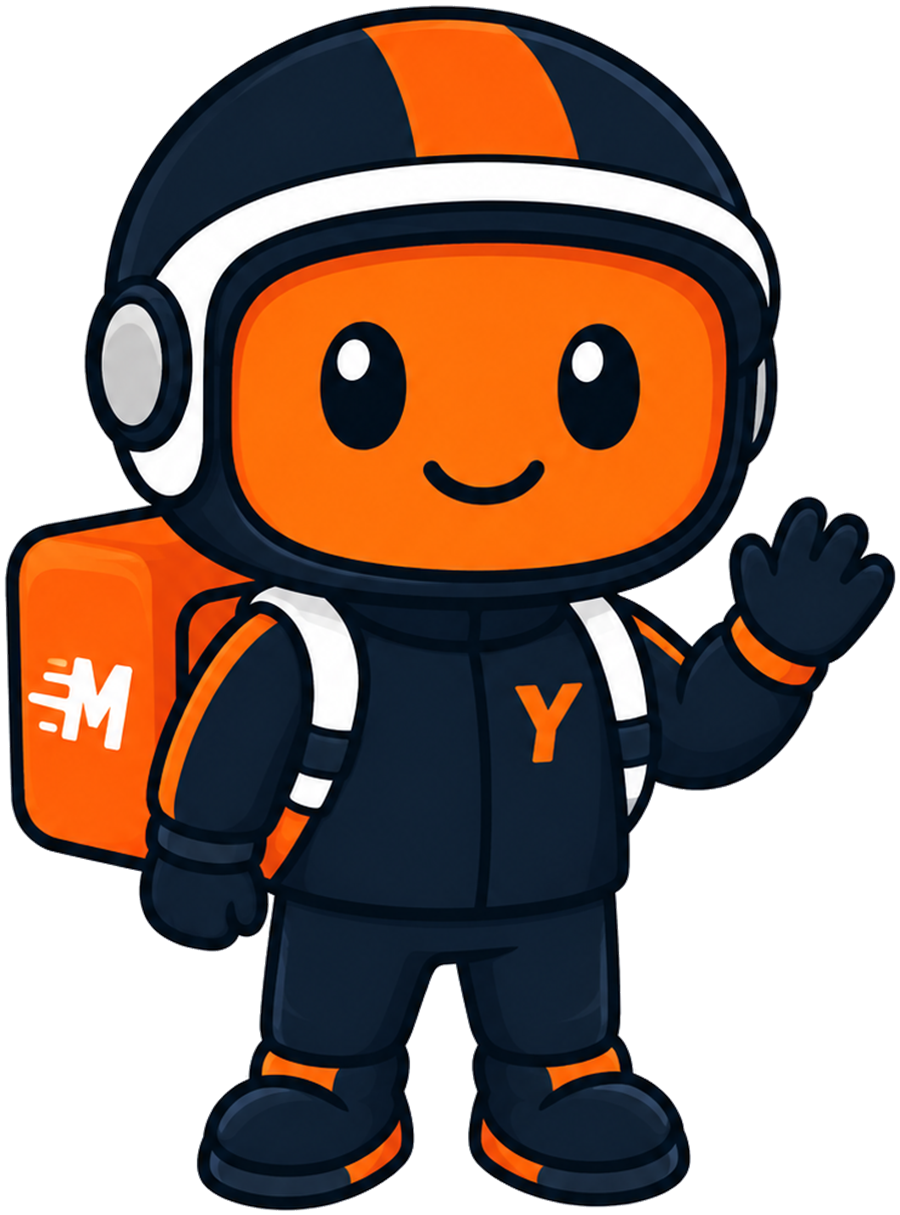
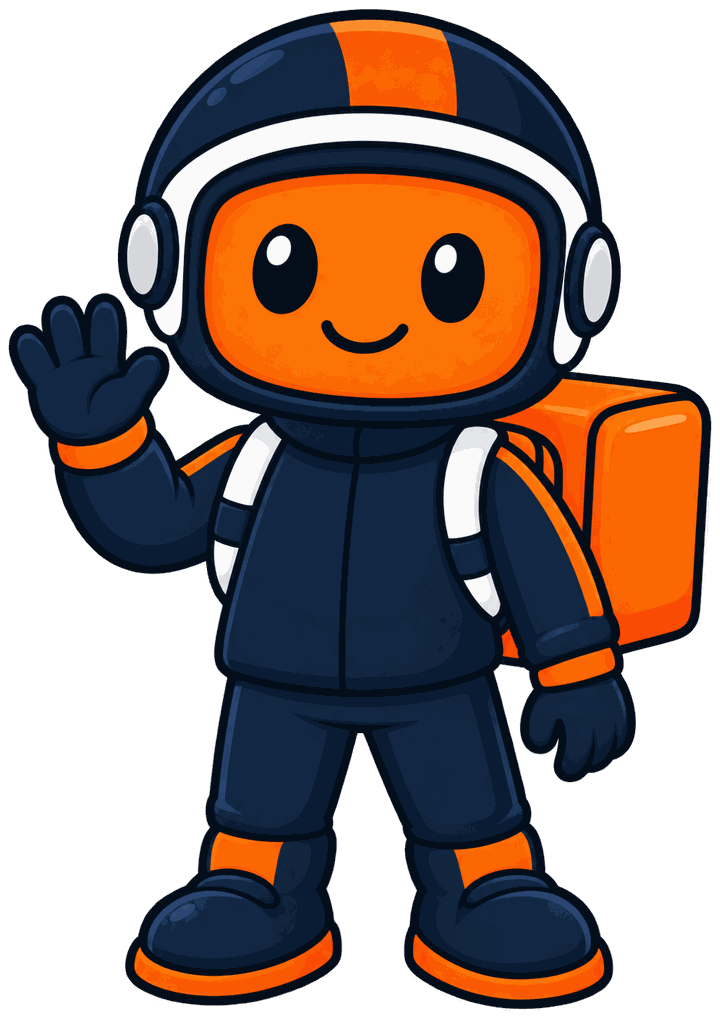
:sparkles: FEATURE :: Enlaces a terminos y privacidad, y mascota sin la marca vieja
Los documentos legales ahora se pueden leer
El registro pedia marcar "Acepto los Terminos y la Politica de privacidad" en
texto plano, sin forma de abrir ninguno de los dos desde la app. Una aceptacion
asi no vale gran cosa, ni legalmente ni de cara al usuario, y las tiendas piden
que ambos sean alcanzables desde dentro.

- El texto de la casilla pasa a Text.rich con los dos documentos enlazados.
- El pie del perfil gana una fila con los dos enlaces, encima de la version.
- Los dos abren zumbeo.com en el navegador del sistema, no en un WebView: son
  documentos largos que la gente lee, copia y comparte, y asi se actualizan
  publicando la landing en vez de sacando una version de la app.
- Si no se pueden abrir, un SnackBar muestra la URL. Fallar en silencio dejaria
  al usuario tocando un enlace que no hace nada.
- Env.sitioBaseUrl (SITIO_BASE_URL, default https://zumbeo.com) y de ahi
  terminosUrl y privacidadUrl. Es la landing, no el panel: quien abre esto es un
  cliente o un conductor, y un enlace a un host que dice "admin" parece un
  phishing.

Detalle: los TapGestureRecognizer viven en el State y se liberan en dispose.
Creados dentro de build se filtrarian en cada repintado, y el registro se
repinta con cada tecla que se escribe.

Mascota
- mascota.png se reemplaza por la maestra nueva, que ya nace sin la "M" de la
  caja ni la "Y" del pecho. Las copias anteriores llevaban esas dos letras de
  motoYa horneadas dentro del dibujo.
[…]

diff --git a/lib/ui/core/widgets/legal.dart b/lib/ui/core/widgets/legal.dart
@@ -1,0 +1,155 @@
+import 'package:flutter/gestures.dart';
+import 'package:flutter/material.dart';
+import 'package:url_launcher/url_launcher.dart';
+
+import '../../../config/env.dart';
+import '../theme/app_colors.dart';
+import '../theme/app_spacing.dart';
+
+/// Abre una URL legal en el navegador del sistema.
+///
+/// Fuera de la app a propósito: son documentos largos que la gente lee, copia y
+/// comparte, y meterlos en un WebView dentro de la app obligaría a mantener una
+/// pantalla más y a duplicar el texto. Además así se actualizan publicando la
+/// landing, sin sacar una versión nueva de la app.
+///
+/// Si no se puede abrir —un dispositivo sin navegador, un enlace mal formado—
+/// se avisa con la URL a la vista, que es lo único útil que se puede hacer:
+/// permite copiarla a mano. Fallar en silencio dejaría al usuario tocando un
+/// enlace que no hace nada.
+Future<void> abrirEnlaceLegal(BuildContext context, String url) async {
+  final messenger = ScaffoldMessenger.maybeOf(context);
+  var abierto = false;
+  try {
+    abierto = await launchUrl(
+      Uri.parse(url),
+      mode: LaunchMode.externalApplication,
+    );
+  } catch (_) {
+    abierto = false;
+  }
+  if (!abierto) {
+    messenger?.showSnackBar(
+      SnackBar(content: Text('No pudimos abrir el enlace. Entra a $url')),
+    );
+  }
+}
+
+/// Enlaces a los documentos legales, para el pie del perfil.
+///
+/// Van en el perfil y no enterrados en un "Acerca de": las tiendas piden que
+/// sean alcanzables desde dentro de la app, y quien los busca los busca aquí.
+class EnlacesLegales extends StatelessWidget {
+  const EnlacesLegales({super.key});
+
+  @override
+  Widget build(BuildContext context) {
+    return Wrap(
+      alignment: WrapAlignment.center,
+      crossAxisAlignment: WrapCrossAlignment.center,
+      children: [
+        _EnlaceLegal(
+          etiqueta: 'Términos y condiciones',
+          url: Env.terminosUrl,
+        ),
+        const Text('·',
+            style: TextStyle(color: AppColors.inkMuted, fontSize: 12)),
+        _EnlaceLegal(
+          etiqueta: 'Política de privacidad',
+          url: Env.privacidadUrl,
+        ),
+      ],
+    );
+  }
+}
+
+class _EnlaceLegal extends StatelessWidget {
+  const _EnlaceLegal({required this.etiqueta, required this.url});
+
+  final String etiqueta;
+  final String url;
+
+  @override
+  Widget build(BuildContext context) {
+    return TextButton(
+      onPressed: () => abrirEnlaceLegal(context, url),
+      style: TextButton.styleFrom(
+        padding: const EdgeInsets.symmetric(horizontal: AppSpacing.sm),
+        minimumSize: const Size(0, 40),
+        tapTargetSize: MaterialTapTargetSize.shrinkWrap,
+        foregroundColor: AppColors.inkMuted,
+      ),
+      child: Text(etiqueta, style: const TextStyle(fontSize: 12)),
+    );
+  }
+}
+
+/// Texto de la casilla de aceptación del registro, con los dos documentos
+/// enlazados.
+///
+/// Antes era texto plano: se pedía aceptar unos términos que no se podían leer
+/// desde ningún sitio. Una aceptación así no vale gran cosa, ni legalmente ni
+/// de cara al usuario.
+///
+/// Los `TapGestureRecognizer` viven en el `State` y se liberan en `dispose`:
+/// creados dentro de `build` se filtrarían en cada repintado, y el registro se
+/// repinta con cada tecla que se escribe en el formulario.
+class TextoAceptacionLegal extends StatefulWidget {
+  const TextoAceptacionLegal({super.key});
+
+  @override
+  State<TextoAceptacionLegal> createState() => _TextoAceptacionLegalState();
+}
+
+class _TextoAceptacionLegalState extends State<TextoAceptacionLegal> {
+  late final TapGestureRecognizer _terminos;
+  late final TapGestureRecognizer _privacidad;
+
+  @override
+  void initState() {
+    super.initState();
+    _terminos = TapGestureRecognizer()
+      ..onTap = () => abrirEnlaceLegal(context, Env.terminosUrl);
+    _privacidad = TapGestureRecognizer()
+      ..onTap = () => abrirEnlaceLegal(context, Env.privacidadUrl);
+  }
+
+  @override
+  void dispose() {
+    _terminos.dispose();
+    _privacidad.dispose();
+    super.dispose();
+  }
+
+  @override
+  Widget build(BuildContext context) {
+    const base = TextStyle(fontSize: 13, color: AppColors.ink);
+    const enlace = TextStyle(
+      fontSize: 13,
+      color: AppColors.primary,
+      fontWeight: FontWeight.w600,
+      decoration: TextDecoration.underline,
+      decorationColor: AppColors.primary,
+    );
+    return Text.rich(
+      TextSpan(
+        style: base,
+        children: [
+          const TextSpan(text: 'Acepto los '),
+          TextSpan(
+            text: 'Términos y condiciones',
+            style: enlace,
+            recognizer: _terminos,
+          ),
+          const TextSpan(text: ' y la '),
+          TextSpan(
+            text: 'Política de privacidad',
+            style: enlace,
+            recognizer: _privacidad,
+          ),
+          const TextSpan(text: ' de Zumbeo.'),
+        ],
+      ),
+    );
+  }
+}

diff --git a/lib/ui/features/auth/registro_screen.dart b/lib/ui/features/auth/registro_screen.dart
@@ -7,6 +7,7 @@ import '../../../data/repositories/auth_repository.dart';
 import '../../../di/locator.dart';
 import '../../core/theme/app_colors.dart';
 import '../../core/theme/app_spacing.dart';
+import '../../core/widgets/legal.dart';
 import '../../core/widgets/phone_field.dart';
 import '../../core/widgets/primary_button.dart';
 import '../../router.dart';
@@ -230,10 +231,11 @@ class _RegistroViewState extends State<_RegistroView> {
               contentPadding: EdgeInsets.zero,
               controlAffinity: ListTileControlAffinity.leading,
               activeColor: AppColors.primary,
-              title: const Text(
-                'Acepto los Términos y la Política de privacidad de Zumbeo.',
-                style: TextStyle(fontSize: 13),
-              ),
+              // Los dos documentos son enlaces: pedir que se acepte algo que no
+              // se puede leer desde ningún sitio no es aceptación de nada, y
+              // aquí es donde dice que el conductor es independiente y cómo se
+              // cobra la comisión.
+              title: const TextoAceptacionLegal(),
             ),
             const SizedBox(height: AppSpacing.md),
             PrimaryButton(

diff --git a/lib/config/env.dart b/lib/config/env.dart
@@ -23,6 +23,24 @@ class Env {
     defaultValue: '$_defaultHost/Api/ws-tracking',
   );
 
+  /// Sitio público (la landing del apex). **No** es el panel administrativo:
+  /// las páginas legales las abre un conductor, y un enlace a un host que dice
+  /// "admin" parece un phishing. Es el mismo host de `PANEL_BASE_URL` en el
+  /// backend, que conserva ese nombre por historia.
+  static const String sitioBaseUrl = String.fromEnvironment(
+    'SITIO_BASE_URL',
+    defaultValue: 'https://zumbeo.com',
+  );
+
+  /// Términos y condiciones. Google Play exige declarar esta URL en la ficha, y
+  /// tiene que ser alcanzable **desde dentro de la app**, no solo desde la web.
+  /// Es donde está escrito que el conductor es independiente y cómo funciona la
+  /// comisión, así que aquí importa más todavía que en la app cliente.
+  static const String terminosUrl = '$sitioBaseUrl/terminos';
+
+  /// Política de privacidad, también obligatoria en la ficha de Play.
+  static const String privacidadUrl = '$sitioBaseUrl/privacidad';
+
   /// Plantilla de tiles OpenStreetMap (configurable para producción).
   static const String osmTileUrl = String.fromEnvironment(
     'OSM_TILE_URL',

diff --git a/lib/ui/features/perfil/perfil_screen.dart b/lib/ui/features/perfil/perfil_screen.dart
@@ -14,6 +14,7 @@ import '../../core/theme/app_spacing.dart';
 import '../../core/widgets/async_view.dart';
 import '../../core/widgets/beta_chip.dart';
 import '../../core/widgets/brand.dart';
+import '../../core/widgets/legal.dart';
 import '../../core/widgets/moto_card.dart';
 import '../../core/widgets/phone_field.dart';
 import '../../core/widgets/primary_button.dart';
@@ -637,6 +638,10 @@ class _PerfilViewState extends State<_PerfilView> {
                           ),
                         ),
                         const SizedBox(height: AppSpacing.xl),
+                        // Alcanzables desde dentro de la app, que es lo que
+                        // piden las tiendas. Abren la landing en el navegador.
+                        const EnlacesLegales(),
+                        const SizedBox(height: AppSpacing.sm),
                         const Center(
                           child: Text('Hecho en Colombia 🇨🇴',
                               style: TextStyle(
